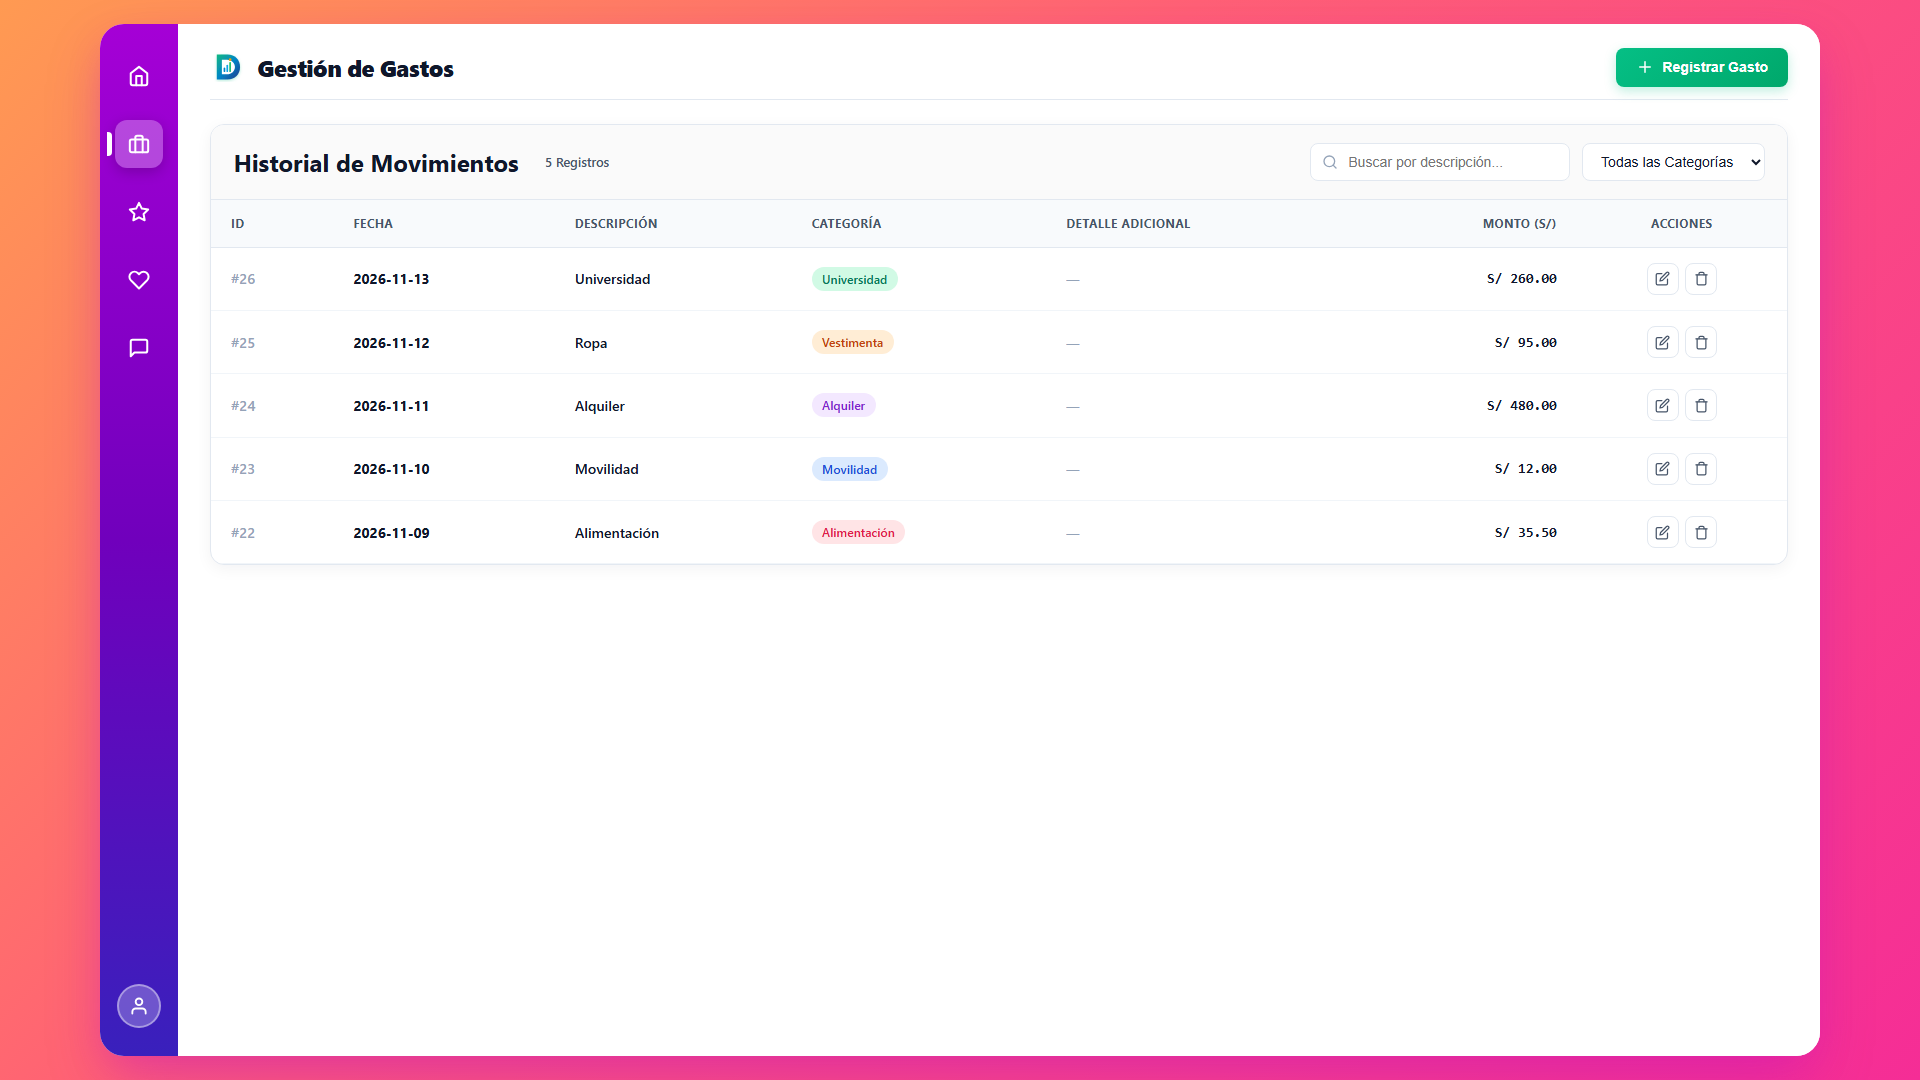
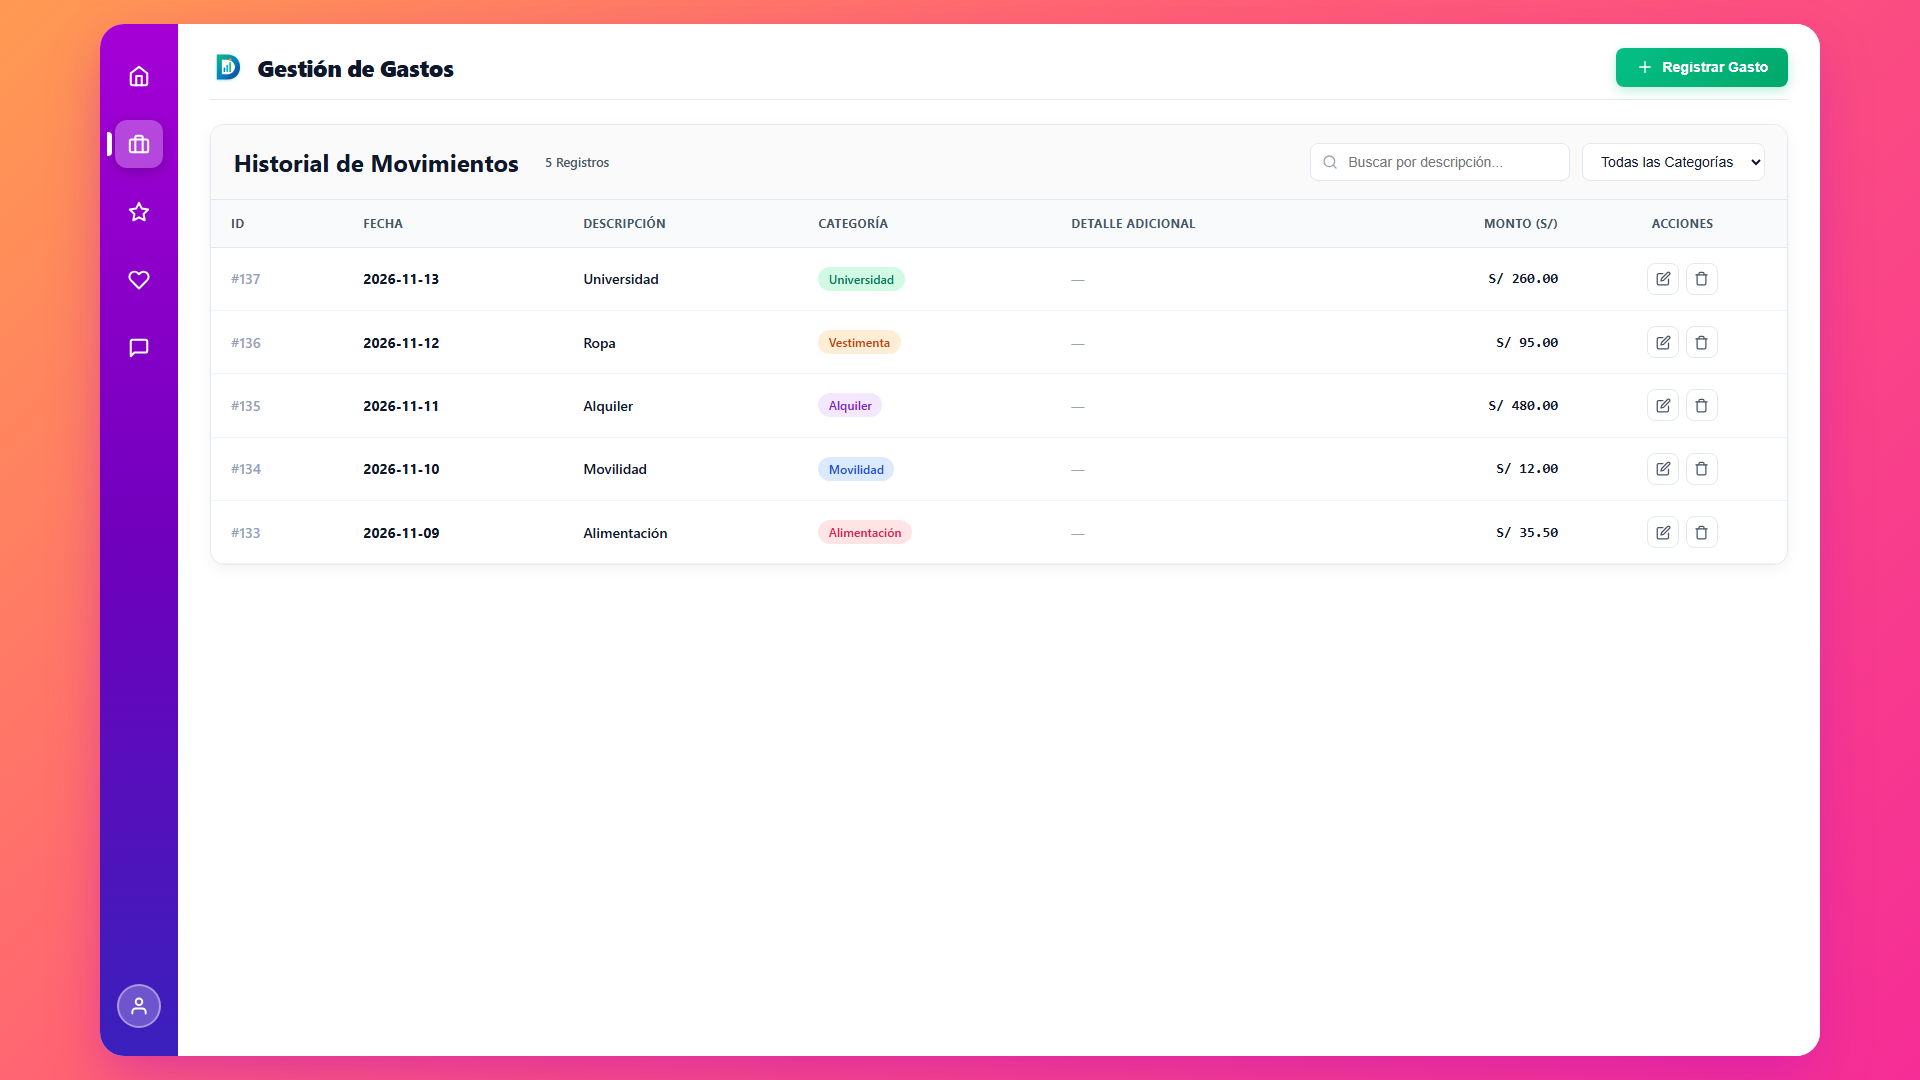
style(reportes): Aplicar tarjetas con degradados vibrantes y retirar seccion datos iniciales del README

diff --git a/static/css/dashboard.css b/static/css/dashboard.css
@@ -241,7 +241,7 @@ body {
 }
 
 /* ==========================================================
-   KPIS GRID GENERAL (USADO EN REPORTES)
+   KPIS GRID GENERAL (USADO EN REPORTES) CON FONDOS DEGRADADOS
    ========================================================== */
 .kpis-grid {
   display: grid;
@@ -252,53 +252,79 @@ body {
 }
 
 .kpi-card {
-  background: #FFFFFF;
   border-radius: var(--radius-md);
-  padding: 1.25rem 1.4rem;
+  padding: 1.35rem 1.4rem;
   display: flex;
   align-items: center;
   justify-content: space-between;
-  border: 1px solid var(--border-light);
-  box-shadow: 0 4px 16px rgba(15, 23, 42, 0.05);
+  border: none;
+  color: #FFFFFF;
+  position: relative;
+  overflow: hidden;
+  transition: transform 0.2s ease, box-shadow 0.2s ease;
+}
+
+.kpi-card::after {
+  content: '';
+  position: absolute;
+  top: 0;
+  right: 0;
+  bottom: 0;
+  left: 0;
+  background: radial-gradient(circle at top right, rgba(255, 255, 255, 0.22), transparent 70%);
+  pointer-events: none;
+}
+
+.kpi-card:hover {
+  transform: translateY(-3px);
 }
 
 .kpi-info {
   display: flex;
   flex-direction: column;
+  position: relative;
+  z-index: 1;
 }
 
 .kpi-title {
   font-size: 0.78rem;
   text-transform: uppercase;
-  color: var(--text-secondary);
+  color: rgba(255, 255, 255, 0.92);
   font-weight: 700;
-  letter-spacing: 0.5px;
+  letter-spacing: 0.6px;
   margin-bottom: 0.35rem;
 }
 
 .kpi-value {
-  font-size: 1.7rem;
+  font-size: 1.85rem;
   font-weight: 800;
-  color: var(--text-main);
+  color: #FFFFFF;
   letter-spacing: -0.5px;
+  line-height: 1.15;
+  text-shadow: 0 2px 6px rgba(0, 0, 0, 0.15);
 }
 
 .kpi-note {
-  font-size: 0.74rem;
-  margin-top: 0.3rem;
-  color: var(--text-muted);
+  font-size: 0.75rem;
+  margin-top: 0.35rem;
+  color: rgba(255, 255, 255, 0.88);
   font-weight: 500;
 }
 
 .kpi-icon-wrap {
-  width: 46px;
-  height: 46px;
-  min-width: 46px;
+  width: 48px;
+  height: 48px;
+  min-width: 48px;
   border-radius: 50%;
   display: flex;
   align-items: center;
   justify-content: center;
-  background: #F1F5F9;
+  background: rgba(255, 255, 255, 0.24);
+  backdrop-filter: blur(6px);
+  color: #FFFFFF;
+  box-shadow: 0 4px 14px rgba(0, 0, 0, 0.1);
+  position: relative;
+  z-index: 1;
 }
 
 .kpi-icon-wrap svg {
@@ -306,38 +332,51 @@ body {
   height: 22px;
   max-width: 22px;
   max-height: 22px;
+  stroke: #FFFFFF;
 }
 
-.kpi-card.kpi-emerald {
-  border-top: 4px solid var(--accent-emerald);
+/* Degradado 1: Rosa a Morado (#FF579A -> #AF00D4) */
+.kpi-card.kpi-emerald,
+.kpi-card.kpi-grad-pink-purple {
+  background: linear-gradient(135deg, #FF579A 0%, #AF00D4 100%);
+  box-shadow: 0 10px 24px rgba(175, 0, 212, 0.28);
 }
-.kpi-card.kpi-emerald .kpi-icon-wrap {
-  background: #ECFDF5;
-  color: var(--accent-emerald);
-}
-
-.kpi-card.kpi-blue {
-  border-top: 4px solid var(--accent-blue);
-}
-.kpi-card.kpi-blue .kpi-icon-wrap {
-  background: #EFF6FF;
-  color: var(--accent-blue);
+.kpi-card.kpi-emerald:hover,
+.kpi-card.kpi-grad-pink-purple:hover {
+  box-shadow: 0 14px 30px rgba(175, 0, 212, 0.38);
 }
 
-.kpi-card.kpi-purple {
-  border-top: 4px solid var(--sidebar-start);
+/* Degradado 2: Naranja a Rosa (#FF9B50 -> #FF23A7) */
+.kpi-card.kpi-blue,
+.kpi-card.kpi-grad-orange-pink {
+  background: linear-gradient(135deg, #FF9B50 0%, #FF23A7 100%);
+  box-shadow: 0 10px 24px rgba(255, 35, 167, 0.28);
 }
-.kpi-card.kpi-purple .kpi-icon-wrap {
-  background: #F5F3FF;
-  color: var(--sidebar-start);
+.kpi-card.kpi-blue:hover,
+.kpi-card.kpi-grad-orange-pink:hover {
+  box-shadow: 0 14px 30px rgba(255, 35, 167, 0.38);
 }
 
-.kpi-card.kpi-orange {
-  border-top: 4px solid var(--accent-orange);
+/* Degradado 3: Morado a Azul (#B900CE -> #1839C9) */
+.kpi-card.kpi-purple,
+.kpi-card.kpi-grad-purple-blue {
+  background: linear-gradient(135deg, #B900CE 0%, #1839C9 100%);
+  box-shadow: 0 10px 24px rgba(24, 57, 201, 0.28);
 }
-.kpi-card.kpi-orange .kpi-icon-wrap {
-  background: #FFFBEB;
-  color: var(--accent-orange);
+.kpi-card.kpi-purple:hover,
+.kpi-card.kpi-grad-purple-blue:hover {
+  box-shadow: 0 14px 30px rgba(24, 57, 201, 0.38);
+}
+
+/* Degradado 4: Esmeralda a Cian (#05BF85 -> #0E7490) */
+.kpi-card.kpi-orange,
+.kpi-card.kpi-grad-emerald-cyan {
+  background: linear-gradient(135deg, #05BF85 0%, #0E7490 100%);
+  box-shadow: 0 10px 24px rgba(5, 191, 133, 0.28);
+}
+.kpi-card.kpi-orange:hover,
+.kpi-card.kpi-grad-emerald-cyan:hover {
+  box-shadow: 0 14px 30px rgba(5, 191, 133, 0.38);
 }
 
 /* ==========================================================

diff --git a/docs/index.html b/docs/index.html
@@ -222,3 +222,4 @@
   </div>
 </body>
 </html>
+

diff --git a/tests/test_app.py b/tests/test_app.py
@@ -8,10 +8,11 @@ from database import init_db, get_db_connection
 def client():
     app.config['TESTING'] = True
     app.config['WTF_CSRF_ENABLED'] = False
-    init_db()
+    init_db(reset_demo_data=True)
 
     with app.test_client() as client:
         yield client
+    init_db(reset_demo_data=True)
 
 def login_client(client, username="admin", password="123"):
     return client.post('/login', data={

diff --git a/README.md b/README.md
@@ -57,24 +57,6 @@ Pantalla dedicada a la generación de balances filtrados por fechas y categoría
 
 ---
 
-## 📊 Datos Iniciales de Demostración
-
-La base de datos SQLite se inicializa con los siguientes cinco registros de muestra:
-
-| Fecha | Categoría | Descripción | Monto |
-| :---: | :---: | :--- | :---: |
-| 09/11/2026 | Alimentación | Alimentación | S/ 35.50 |
-| 10/11/2026 | Movilidad | Movilidad | S/ 12.00 |
-| 11/11/2026 | Alquiler | Alquiler | S/ 480.00 |
-| 12/11/2026 | Vestimenta | Ropa | S/ 95.00 |
-| 13/11/2026 | Universidad | Universidad | S/ 260.00 |
-
-- **Total acumulado:** S/ 882.50
-- **Promedio por gasto:** S/ 176.50
-- **Categoría principal:** Alquiler (S/ 480.00)
-
----
-
 ## ⚙ Instalación y Ejecución en Local
 
 En PowerShell (Windows):
